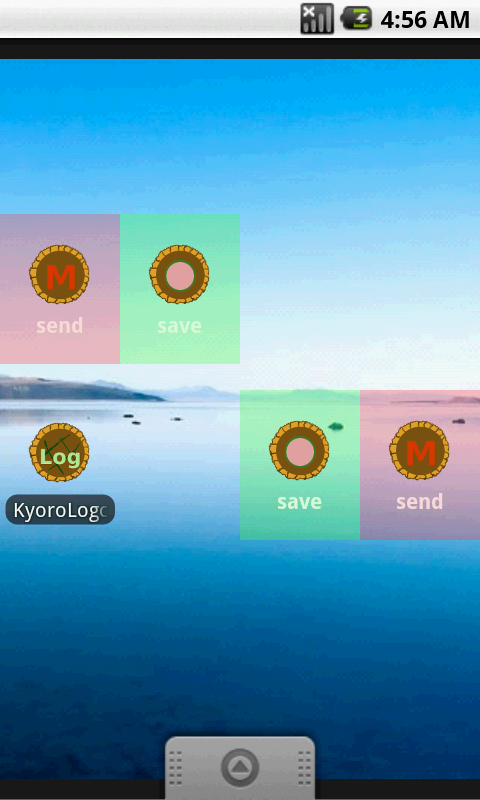
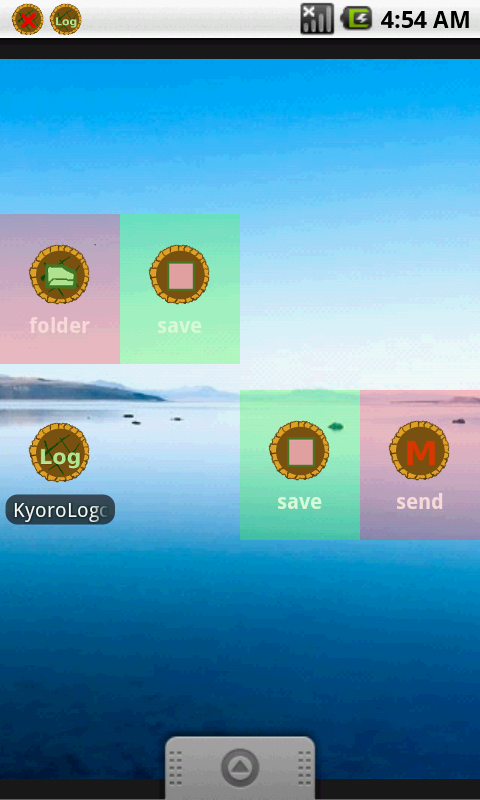
KyoroLogcat (alpha) version 112

diff --git a/KyoroCommon/src/info/kyorohiro/helloworld/android/base/TestService.java b/KyoroCommon/src/info/kyorohiro/helloworld/android/base/TestService.java
@@ -7,6 +7,8 @@ import android.app.Notification;
 import android.app.NotificationManager;
 import android.app.Service;
 import android.content.Context;
+import android.os.Build;
+import android.os.Environment;
 
 public abstract class TestService extends Service {
 	private static final Class<?>[] mSetForegroundSignature = 
@@ -95,14 +97,16 @@ public abstract class TestService extends Service {
 	@Override
 	public void onCreate() {
 		mNM = (NotificationManager)getSystemService(NOTIFICATION_SERVICE);
-		try {
-			mStartForeground = getClass().getMethod("startForeground",
-					mStartForegroundSignature);
-			mStopForeground = getClass().getMethod("stopForeground",
-					mStopForegroundSignature);
-			return;
-		} catch (NoSuchMethodException e) {
-			mStartForeground = mStopForeground = null;
+		if(Build.VERSION.SDK_INT > 7){
+			try {
+				mStartForeground = getClass().getMethod("startForeground",
+						mStartForegroundSignature);
+				mStopForeground = getClass().getMethod("stopForeground",
+						mStopForegroundSignature);
+				return;
+			} catch (NoSuchMethodException e) {
+				mStartForeground = mStopForeground = null;
+			}
 		}
 		try {
 			mSetForeground = getClass().getMethod("setForeground",

diff --git a/KyoroLogcat/src/info/kyorohiro/helloworld/logcat/KyoroLogcatActivity.java b/KyoroLogcat/src/info/kyorohiro/helloworld/logcat/KyoroLogcatActivity.java
@@ -126,7 +126,6 @@ public class KyoroLogcatActivity extends TestActivity {
 		String action = extras.getString("action");
 		if(action != null && action.equals("folder")){
 			startFolder();
-			Toast.makeText(this, "tap and long tap", Toast.LENGTH_LONG);
 		}
 	}
 
@@ -241,6 +240,8 @@ public class KyoroLogcatActivity extends TestActivity {
 	private void startFolder() {
 		runOnUiThread(new Runnable() {				
 			public void run() {
+				Toast.makeText(KyoroLogcatActivity.this, "tap and long tap", Toast.LENGTH_LONG).show();
+
 				SimpleFileExplorer dialog = 
 					SimpleFileExplorer.createDialog(KyoroLogcatActivity.this, Environment.getExternalStorageDirectory());
 				dialog.show();

diff --git a/KyoroLogcat/src/info/kyorohiro/helloworld/logcat/KyoroApplication.java b/KyoroLogcat/src/info/kyorohiro/helloworld/logcat/KyoroApplication.java
@@ -21,9 +21,9 @@ public class KyoroApplication extends Application {
 		super.onCreate();
 		sInstance = this;
 		mHandler = new Handler();
-		KyoroLogcatService.cancelForgroundNotificationAfterProcessKill(this);
+		//KyoroLogcatService.cancelForgroundNotificationAfterProcessKill(this);
 		if(TaskManagerForSave.saveTaskIsForceKilled()) {
-			// force kill process
+			// pf force kill process
 			TaskManagerForSave.startSaveTask(getApplicationContext());
 			KyoroApplication.showMessageAndNotification("spmode process is killed");
 		}
